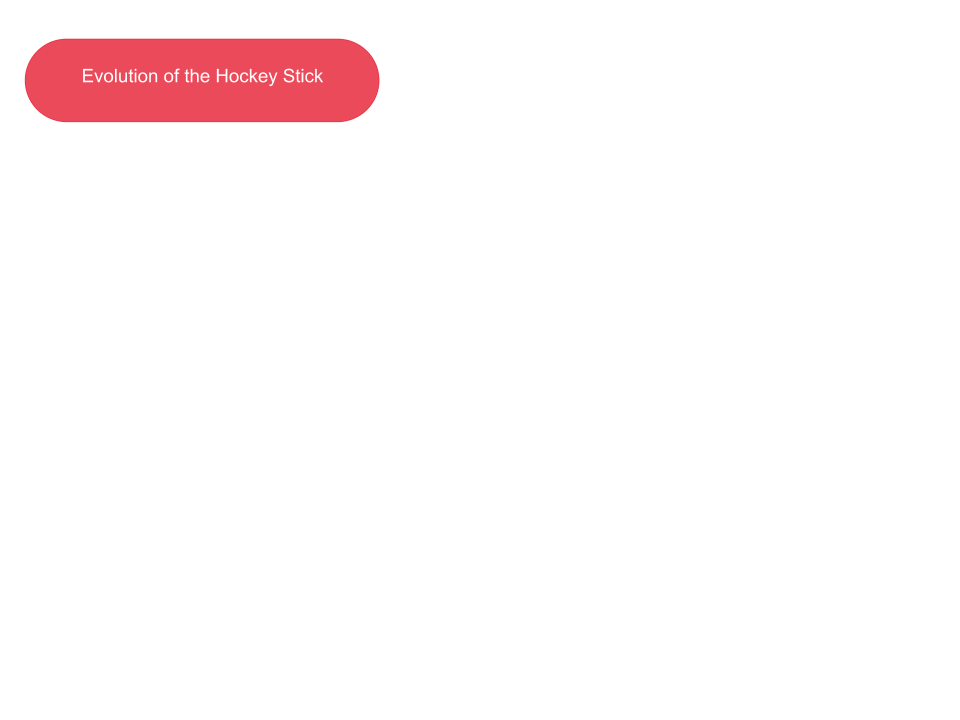
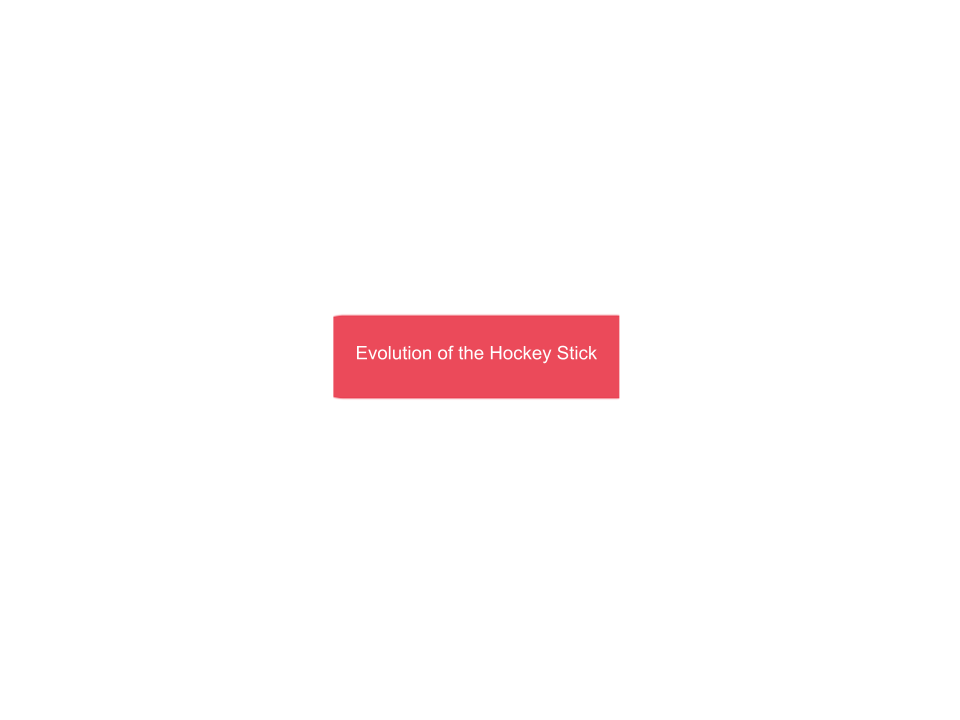
hi

Changed region(s): [[0.0, 0.0306, 0.4062, 0.1833], [0.3438, 0.4278, 0.6562, 0.5806]]

diff --git a/final project/code/hockeystick.html b/final project/code/hockeystick.html
@@ -1,7 +1,27 @@
 <!DOCTYPE html>	
 <html>
-<script>
-</script>
+<style>
+	.center {
+  display:block; 
+  text-align: center;
+  margin-left: auto;
+  margin-right: auto;
+
+  .textbox1 {
+  text-align: center;
+  border-radius: 10px
+  margin-left:auto;
+  margin-right:auto;
+  background-color:black;
+
+
+  }
+ 
+}
+</style>
 <body>
+	<img alt="images" src="text.png" class="center" >
+	<div class="textbox1", class="center">
+	</div>
 </body>
 </html>

diff --git a/final project/code/123.html b/final project/code/123.html
@@ -17,7 +17,7 @@ body
  text-align: center;
  width: 100%;
  font-family: "Myriad Pro","Helvetica Neue",Helvetica,Arial,Sans-Serif;
- background-color: cornflowerblue;
+ background-color: white;
 }
 
 #wrapper
